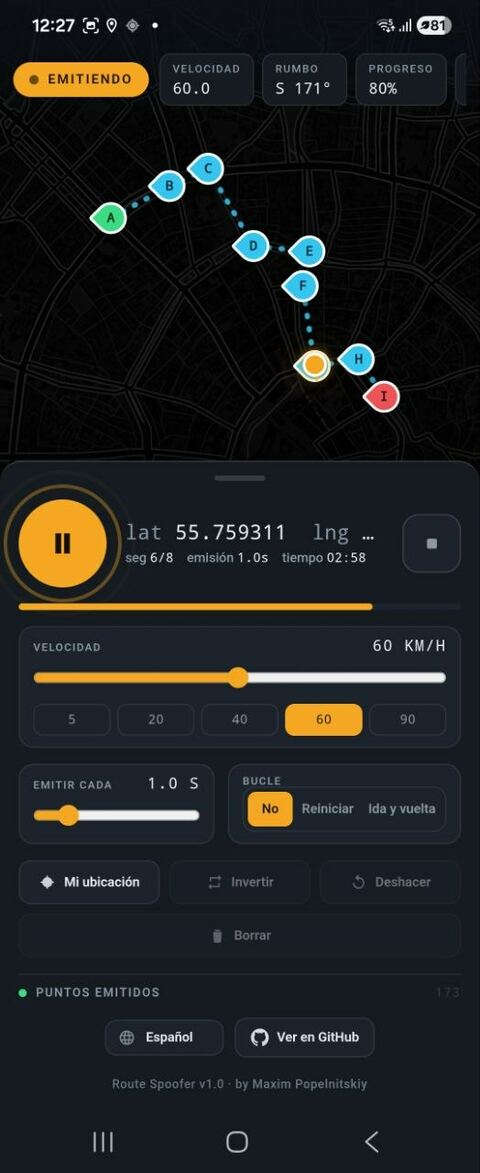
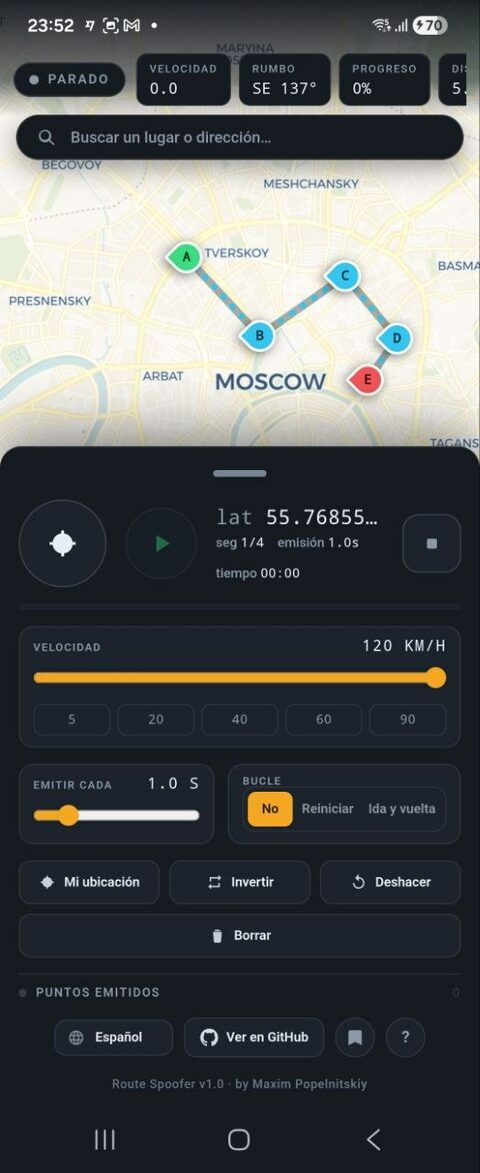
media: refresh multilingual screenshots (es/zh/hi) and add Hindi shot

diff --git a/index.html b/index.html
@@ -248,11 +248,14 @@
                                     <li lang="hi">हिन्दी</li>
                             </ul>
             <div class="shot-pair">
+                <img class="phone" src="images/lang-es.jpg"
+                     alt="Route Spoofer interface in Spanish" data-i18n-alt="multilingual.alt_b"
+                     width="480" height="1173" loading="lazy">
                 <img class="phone" src="images/lang-zh.jpg"
                      alt="Route Spoofer interface in Chinese" data-i18n-alt="multilingual.alt_a"
                      width="480" height="1173" loading="lazy">
-                <img class="phone" src="images/lang-es.jpg"
-                     alt="Route Spoofer interface in Spanish" data-i18n-alt="multilingual.alt_b"
+                <img class="phone" src="images/lang-hi.jpg"
+                     alt="Route Spoofer interface in Hindi" data-i18n-alt="multilingual.alt_c"
                      width="480" height="1173" loading="lazy">
             </div>
         </div>